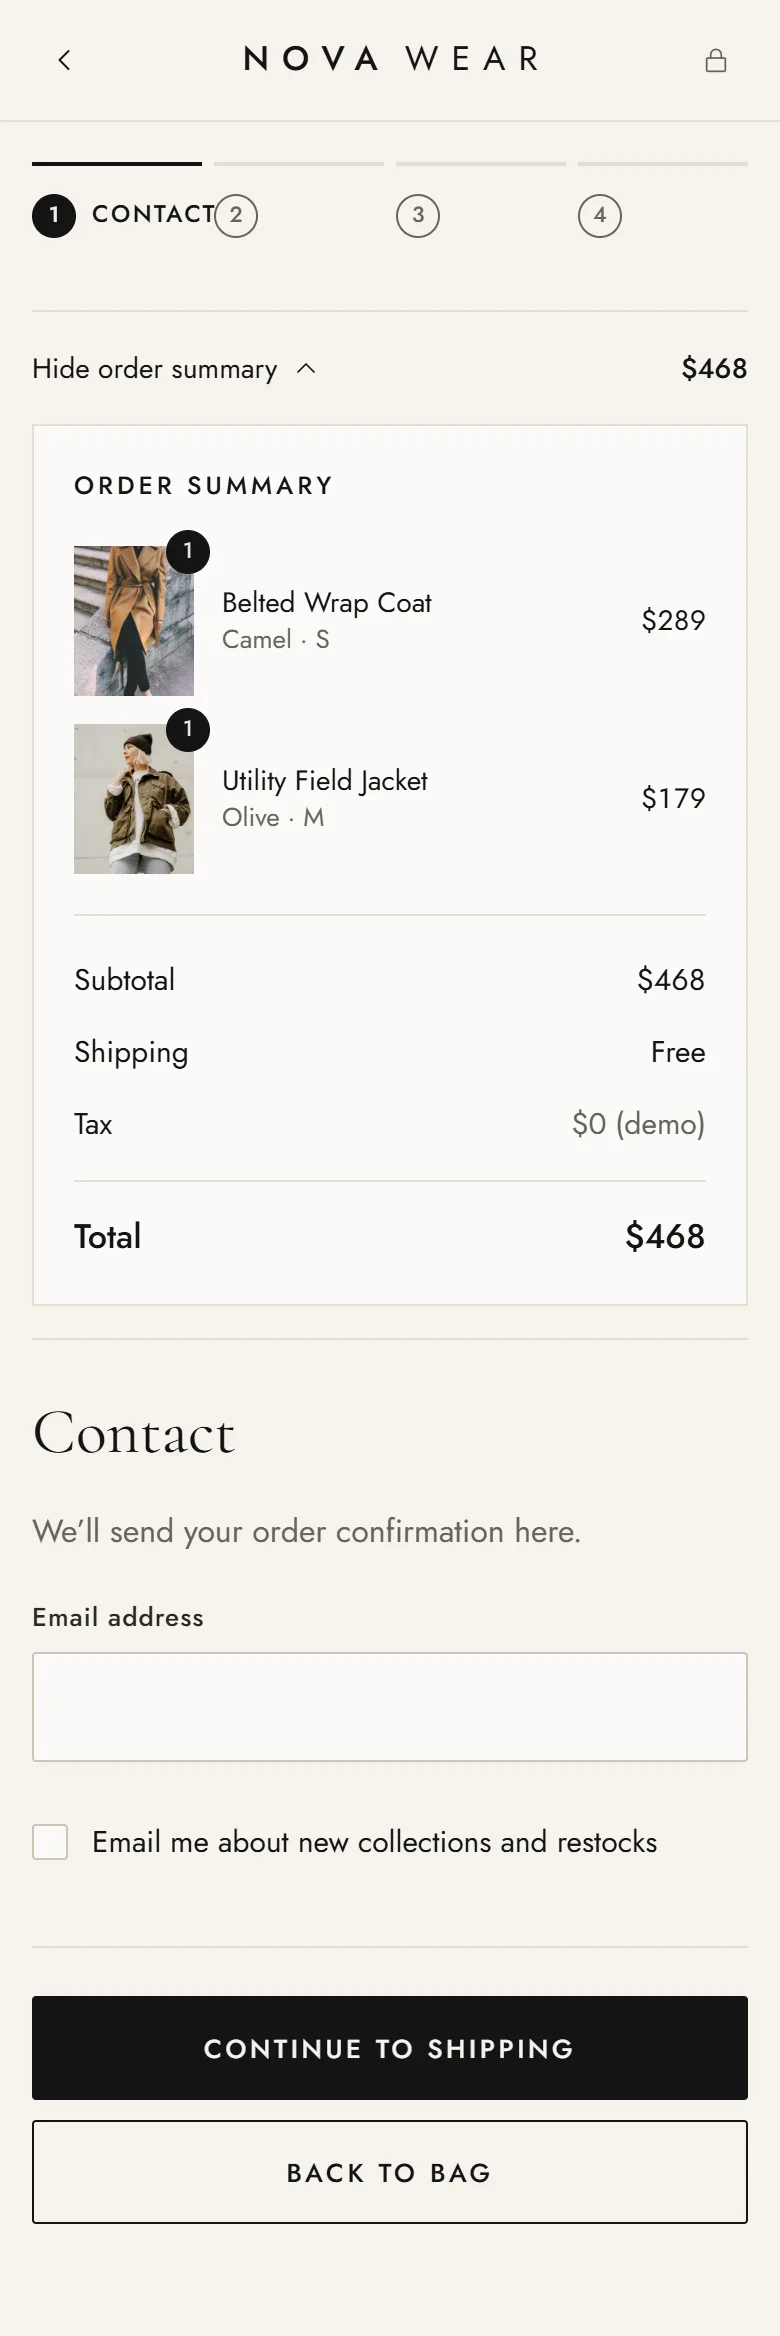
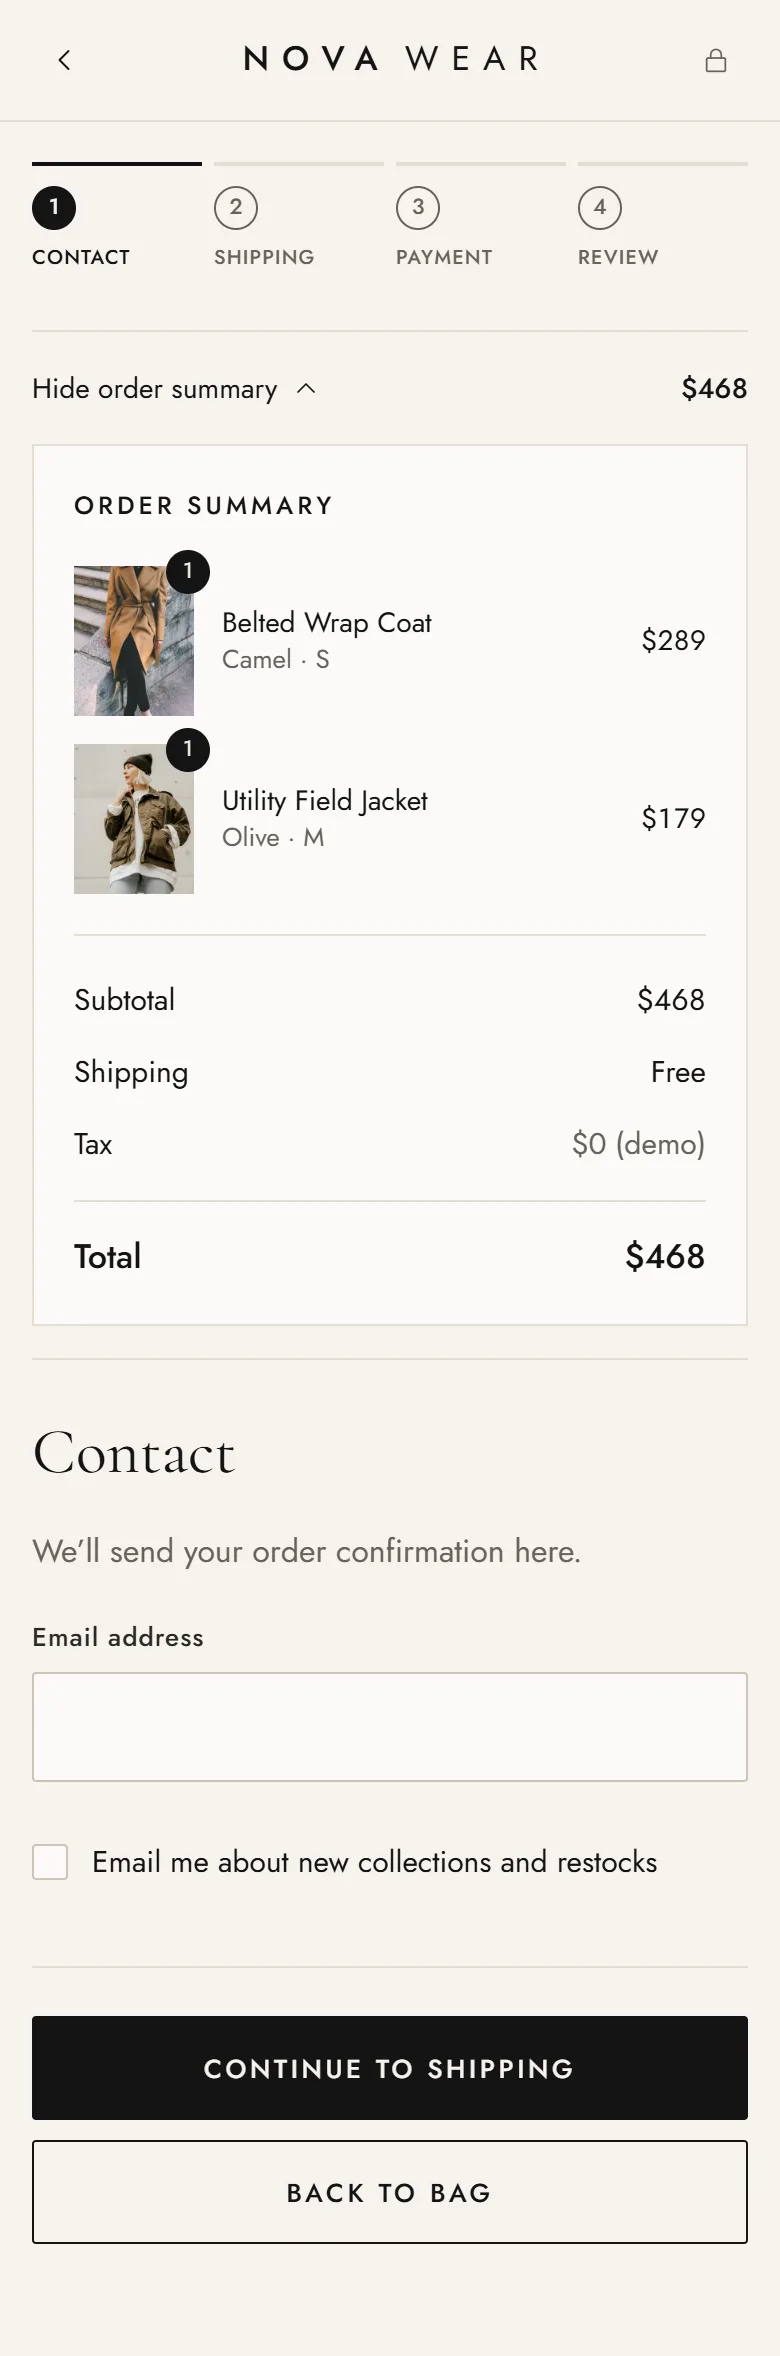
Fix mobile checkout and production URLs

diff --git a/index.html b/index.html
@@ -8,13 +8,13 @@
     <!-- Portfolio demo: keep out of search indexes -->
     <meta name="robots" content="noindex, nofollow" />
     <meta name="theme-color" content="#f6f3ee" />
-    <link rel="canonical" href="https://nova-wear.example.com/" />
+    <link rel="canonical" href="https://nova-wear-store.netlify.app/" />
 
     <meta property="og:type" content="website" />
     <meta property="og:site_name" content="NOVA WEAR" />
     <meta property="og:title" content="NOVA WEAR — Modern Essentials. Elevated." />
     <meta property="og:description" content="Considered outerwear, fine knitwear and modern tailoring. A premium fashion e-commerce concept." />
-    <meta property="og:image" content="https://nova-wear.example.com/og-image.jpg" />
+    <meta property="og:image" content="https://nova-wear-store.netlify.app/og-image.jpg" />
     <meta property="og:image:width" content="1200" />
     <meta property="og:image:height" content="630" />
     <meta name="twitter:card" content="summary_large_image" />

diff --git a/src/pages/Checkout.css b/src/pages/Checkout.css
@@ -89,13 +89,18 @@ button.stepper__btn:hover .stepper__label {
   color: var(--paper);
 }
 
+/* Narrow screens: stack the label under its number so every step fits its own column. */
 @media (max-width: 599px) {
-  .stepper__item:not(.is-current) .stepper__label {
-    position: absolute;
-    width: 1px;
-    height: 1px;
-    overflow: hidden;
-    clip: rect(0 0 0 0);
+  .stepper__btn {
+    flex-direction: column;
+    align-items: flex-start;
+    gap: 6px;
+    padding-top: 10px;
+    font-size: 10px;
+    letter-spacing: 0.06em;
+  }
+  .stepper__label {
+    white-space: nowrap;
   }
 }
 

diff --git a/src/hooks/useDocumentMeta.js b/src/hooks/useDocumentMeta.js
@@ -1,8 +1,8 @@
 import { useEffect } from 'react';
 
 const SITE = 'NOVA WEAR';
-// Placeholder production origin, swap for the real domain when deployed.
-const BASE_URL = 'https://nova-wear.example.com';
+// Production origin used for canonical and Open Graph URLs.
+const BASE_URL = 'https://nova-wear-store.netlify.app';
 const DEFAULT_DESC =
   'NOVA WEAR is a premium fashion concept store: considered outerwear, fine knitwear and modern tailoring designed to last. Portfolio demo.';
 

diff --git a/README.md b/README.md
@@ -152,7 +152,7 @@ Designed mobile-first and checked at **1440, 1024, 768, 430 and 390 px**.
 
 - Page titles and meta descriptions per route (product pages include name and price)
 - Open Graph and Twitter card tags, with a 1200×630 share image
-- Canonical link updated per route (placeholder origin in `src/hooks/useDocumentMeta.js`)
+- Canonical link updated per route (production origin set in `src/hooks/useDocumentMeta.js`)
 - SVG favicon
 - **`noindex, nofollow`** meta tag and a disallow-all `robots.txt`, because this is a demo
 
